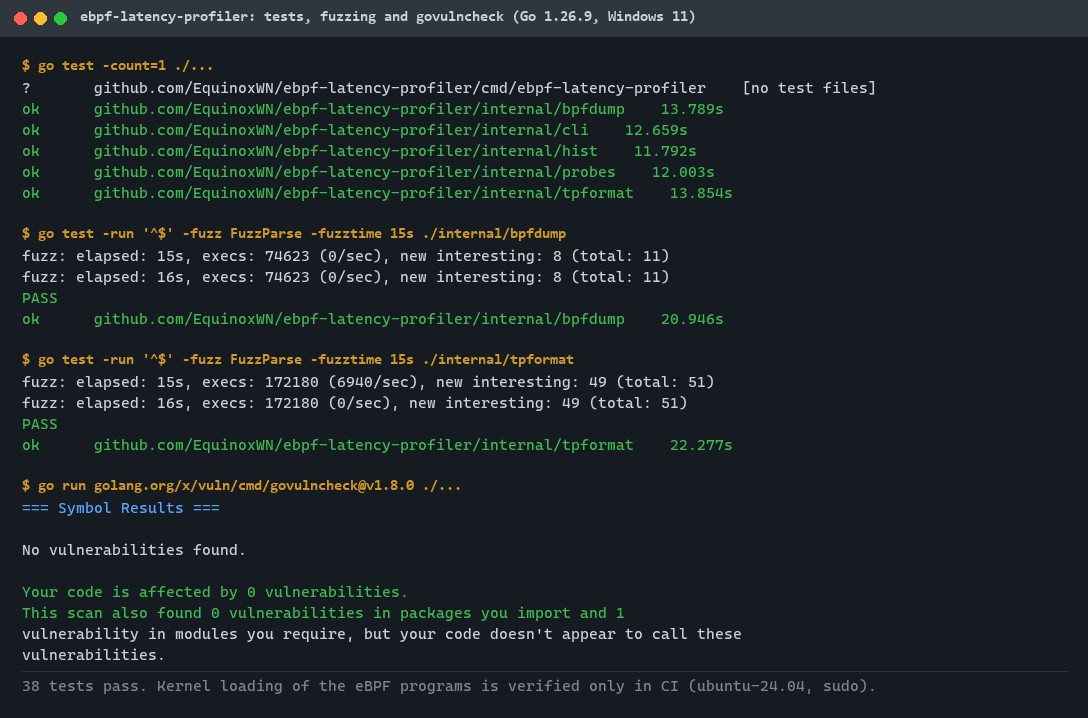
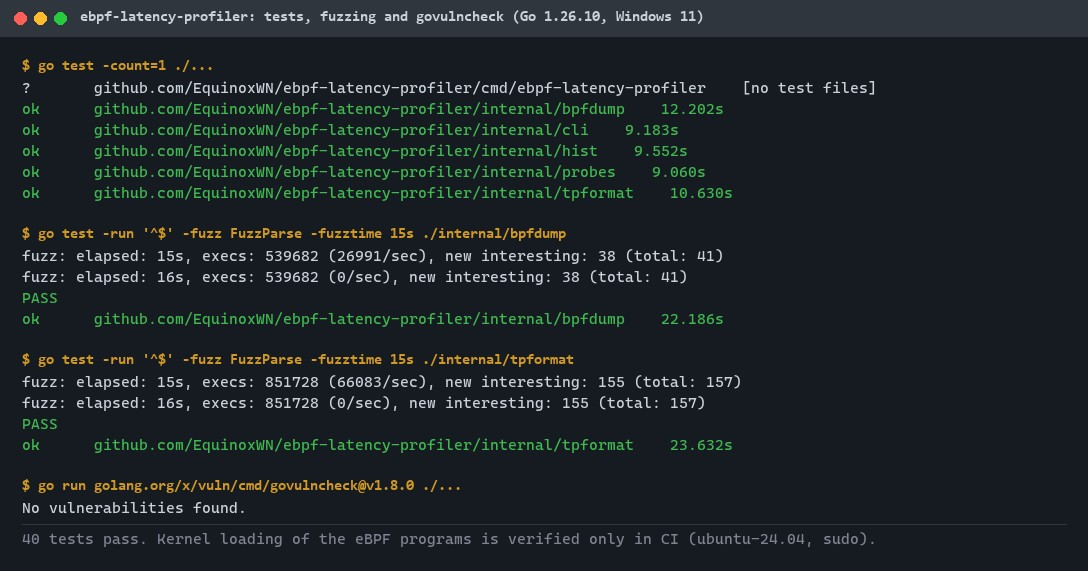
test: check the 10 quality rules, kill surviving mutants
Five hand mutants of the histogram, dump and format parsers survived the
existing tests; each now has a test that kills it. Documents the BPFTOOL
and BPF_CLANG variables and refreshes the test proof (40 tests).

diff --git a/internal/bpfdump/dump_test.go b/internal/bpfdump/dump_test.go
@@ -57,6 +57,7 @@ func TestParseRejectsMalformed(t *testing.T) {
 		"short key":      `[{"key":["0x00"],"value":` + u64 + `}]`,
 		"slot too big":   `[{"key":["0x20","0x00","0x00","0x00"],"value":` + u64 + `}]`,
 		"bad hex":        `[{"key":["0xzz","0x00","0x00","0x00"],"value":` + u64 + `}]`,
+		"short byte":     `[{"key":["0x0","0x00","0x00","0x00"],"value":` + u64 + `}]`,
 		"no prefix":      `[{"key":["00","0x00","0x00","0x00"],"value":` + u64 + `}]`,
 		"short value":    `[{"key":["0x00","0x00","0x00","0x00"],"value":["0x01"]}]`,
 		"no value":       `[{"key":["0x00","0x00","0x00","0x00"]}]`,
@@ -82,6 +83,15 @@ func TestPerCPUOverflowDetected(t *testing.T) {
 	in := `[{"key":["0x00","0x00","0x00","0x00"],"values":[{"cpu":0,"value":` + max + `},{"cpu":1,"value":` + max + `}]}]`
 	if _, err := Parse(strings.NewReader(in), "usecs"); !errors.Is(err, ErrFormat) {
 		t.Fatalf("want overflow error, got %v", err)
+	}
+}
+
+func TestTooManyCPUValuesRejected(t *testing.T) {
+	zero := `{"cpu":0,"value":["0x00","0x00","0x00","0x00","0x00","0x00","0x00","0x00"]}`
+	vals := strings.TrimSuffix(strings.Repeat(zero+",", maxCPUs+1), ",")
+	in := `[{"key":["0x00","0x00","0x00","0x00"],"values":[` + vals + `]}]`
+	if _, err := Parse(strings.NewReader(in), "usecs"); !errors.Is(err, ErrFormat) {
+		t.Fatalf("want ErrFormat for %d CPU values, got %v", maxCPUs+1, err)
 	}
 }
 

diff --git a/internal/hist/hist_test.go b/internal/hist/hist_test.go
@@ -30,7 +30,7 @@ func TestSlotBoundaries(t *testing.T) {
 	cases := []struct {
 		v    uint64
 		slot int
-	}{{0, 0}, {1, 0}, {2, 1}, {3, 1}, {4, 2}, {1000, 9}, {1023, 9}, {1024, 10}, {1 << 31, 31}, {1 << 40, 31}}
+	}{{0, 0}, {1, 0}, {2, 1}, {3, 1}, {4, 2}, {1000, 9}, {1023, 9}, {1024, 10}, {1 << 31, 31}, {1 << 32, 31}, {1<<33 - 1, 31}, {1 << 40, 31}}
 	for _, c := range cases {
 		if got := SlotFor(c.v); got != c.slot {
 			t.Errorf("SlotFor(%d) = %d, want %d", c.v, got, c.slot)
@@ -73,6 +73,17 @@ func TestAddRejectsBadSlotAndOverflow(t *testing.T) {
 	}
 	if err := h.Add(3, 1); err == nil {
 		t.Fatal("want overflow error")
+	}
+}
+
+func TestMergeReportsOverflow(t *testing.T) {
+	a, b := New("usecs"), New("usecs")
+	if err := a.Add(4, ^uint64(0)); err != nil {
+		t.Fatal(err)
+	}
+	b.Observe(20) // slot 4
+	if err := a.Merge(b); err == nil {
+		t.Fatal("merge into a full slot must fail")
 	}
 }
 

diff --git a/internal/tpformat/format_test.go b/internal/tpformat/format_test.go
@@ -92,6 +92,8 @@ func TestFieldNameForms(t *testing.T) {
 		"const char * name":     "name",
 		"void *skbaddr":         "skbaddr",
 		"unsigned long long ts": "ts",
+		// An unsized array outside __data_loc has no fixed size to read by offset.
+		"char flex[]": "",
 	}
 	for decl, want := range cases {
 		if got := fieldName(decl); got != want {

diff --git a/docs/quality/2026-11-01.md b/docs/quality/2026-11-01.md
@@ -1,0 +1,52 @@
+# Quality check 2026-11-01
+
+The ten quality rules checked against the code, with evidence. Go 1.26.10, Windows 11, Intel Core
+i7-13700H. The Go side reads files and stdin only; the eBPF programs run in the kernel and are
+loaded only in CI, so several rules are about the C program or are not applicable (reason given).
+
+| # | Rule | Status | Evidence |
+|---|---|---|---|
+| 1 | Every call can fail | pass | No network or database calls. File and stdin reads are bounded and every error is returned with context: `bpfdump.Parse` (`io.LimitReader`, `MaxInput` 16 MiB), `tpformat.Parse` (1 MiB scanner buffer), `cli.readDump` (refuses non-regular files), `probes.CheckKernel` (missing format file is an error, exit 1). The only ignored errors are `Close` on files opened read-only (`internal/cli/cli.go:154`, `internal/probes/catalog.go:114`), where nothing can be lost. In the C program every `bpf_map_lookup_elem` result is checked for NULL before use (`bpf/latency.bpf.c` `hist_add`, `tp_switch`, `tp_rq_complete`, `kr_fsync`). `scripts/probe-run.sh` runs with `set -euo pipefail`, reports a failed `bpftool prog loadall` as an `::error` annotation, and the CI jobs have 15-minute timeouts. |
+| 2 | Writes safe to retry | pass | The CLI writes only to stdout. `probe-run.sh` removes the pinned programs and maps before loading and again on exit (`trap cleanup EXIT`), so a second run starts from the same state. In the kernel, start times are written with `BPF_ANY` (a repeated start event overwrites, it does not add), and each end event deletes its start entry, so one start is counted at most once. |
+| 3 | No race conditions | pass | The Go code has no goroutines or shared state (`grep -rn "go func\|sync\." cmd internal`: none). In the kernel, histogram slots are per-CPU arrays incremented with `__sync_fetch_and_add`; the start maps are LRU hashes keyed per task, request or thread. A lookup-then-delete on the start maps can race with a new start event for the same key on another CPU; the cost is one lost or skipped sample, never a wrong bucket; LRU eviction under more than 10,240 in-flight starts loses samples the same way. Listed under known limitations. |
+| 4 | Don't trust the clock | pass | Latencies are deltas of `bpf_ktime_get_ns()` (CLOCK_MONOTONIC), and only positive deltas are counted (`if (now > *start)`). The Go code reads no clock. No timestamps are stored or logged. |
+| 5 | Read before changing | fixed | APIs used are the standard library (`go vet` clean on windows and linux) and libbpf/bpftool commands that CI runs. Found: `BPFTOOL` (read by the Makefile and `scripts/probe-run.sh`) and `BPF_CLANG` (Makefile) were not documented; the README "Run it" section now names both with their defaults. Every path the README lists exists. |
+| 6 | Never break compatibility | pass | The JSON summary (`cli.Summary`) is unchanged; optional fields use `omitempty`. The input format is bpftool's JSON dump, and the tracepoint layouts are checked against the running kernel (`check-format`, exit 4 on mismatch) before anything is loaded. |
+| 7 | One source of truth | pass | The kernel layout is written three times on purpose and tied together by tests: `FIELD_ASSERT` in C, the Go catalog, and the kernel's tracefs (`internal/probes/catalog_test.go` reads `latency.bpf.c` and compares every `SEC()`, map, `MAX_SLOTS` and offset). The histograms are the only copy of the data; user space reads them from the maps and keeps nothing. Go version: `go.mod` `go 1.23`, README "Go 1.23+; CI uses 1.26.10", both CI jobs 1.26.10: consistent. |
+| 8 | Small changes, no secrets, validate input | pass | Secret scan (`grep -rniE "password\|secret\|api_?key\|token" --include=*.go cmd internal`): no matches. Inputs validated with clear errors: dump size, entry count, key and value width, hex byte form, duplicate keys, CPU count and overflow (`bpfdump`); format file size, field offsets and sizes, identifier form (`tpformat`); probe name, output format and flags (`cli`, exit 2). No new dependency. |
+| 9 | Tests that can fail | fixed | No tautologies, skips or assertion-free tests (`grep -rn "t.Skip\|assert true"`: none). Mutation table below: 10 of 16 killed before; the 5 non-equivalent survivors now have tests that kill them. |
+| 10 | Re-verify | pass | `bash .tmp/check.sh`: `gofmt` clean, `go vet` (windows and linux) clean, linux build ok, `tests passed: 40, failed: 0`, govulncheck v1.8.0 `No vulnerabilities found.`, `ebpf-latency-profiler: OK`, `CHECK PASS`. Fuzzing re-run for the proof image, 15 s per parser, 0 failures. The kernel side is verified by the CI `probes` job of this commit. |
+
+## Mutation check
+
+Hand mutations, one at a time, `go test -count=1 ./internal/...`, then reverted
+(helper: apply the change, run the tests, restore the file).
+
+| Function | Mutation | Killed before? | Test added |
+|---|---|---|---|
+| `hist.SlotFor` | clamp `s >= MaxSlots` -> `s > MaxSlots` | no (no case in `[2^32, 2^33)`) | `TestSlotBoundaries` cases `1<<32` and `1<<33-1` |
+| `Hist.Percentile` | drop the round-up of the rank | yes | - |
+| `Hist.Percentile` | `seen >= rank` -> `seen > rank` | yes | - |
+| `Hist.Add` | drop the overflow check | yes | - |
+| `Hist.Merge` | ignore the error of `Add` | no | `TestMergeReportsOverflow` |
+| `hist.Low` | lower bound off by one | yes | - |
+| `bpfdump.Parse` | drop the duplicate-key check | yes | - |
+| `bpfdump.Parse` | entry-count bound raised by 100 | no: equivalent (33 or more entries always contain a duplicate or a slot above 31, both still rejected) | - |
+| `bpfdump.entryTotal` | drop the `maxCPUs` bound | no | `TestTooManyCPUValuesRejected` |
+| `bpfdump.entryTotal` | drop the per-CPU overflow check | yes | - |
+| `bpfdump.decodeBytes` | accept `0x1` (3 characters) | no | `TestParseRejectsMalformed` case "short byte" |
+| `Format.Check` | `offset or size differ` -> `and` | yes | - |
+| `tpformat.parseField` | accept negative offsets | yes | - |
+| `tpformat.fieldName` | drop the unsized-array guard | no | `TestFieldNameForms` case `char flex[]` |
+| `cli.render` | `-min-count`: `<` -> `<=` | yes | - |
+| `probes.CheckKernel` | layout problems not collected | yes | - |
+
+Score: 10 of 16 killed before; 15 of 16 after (each of the 5 survivors re-run against the new test
+and killed), the remaining one is equivalent.
+
+## Known limitations
+
+- The race detector is not run: the Go code has no goroutines, and the machine has no C compiler.
+- Samples can be lost, never miscounted: a start entry evicted from a full LRU map (10,240 entries), or
+  replaced by a concurrent start event for the same key, drops that one sample. Kernel overhead and
+  the lost-sample rate under heavy load are not measured yet (M3).

diff --git a/README.md b/README.md
@@ -15,7 +15,7 @@ kernel's formats, because the author's machine runs Windows:
 
 ![probes, check-format and render on fixture inputs](docs/proof/demo.jpg)
 
-38 Go tests pass, both input parsers survive fuzzing, and govulncheck finds no vulnerabilities in
+40 Go tests pass, both input parsers survive fuzzing, and govulncheck finds no vulnerabilities in
 called code with Go 1.26.10, the version CI uses:
 
 ![go test, fuzzing and govulncheck output](docs/proof/tests.jpg)
@@ -116,31 +116,34 @@ sudo bpftool -j map dump pinned /sys/fs/bpf/elp/maps/runq_hist | ./bin/ebpf-late
 sudo rm -rf /sys/fs/bpf/elp   # detach and free everything
 ```
 
+Environment: `BPFTOOL` (bpftool binary for `make probe-run` and `scripts/probe-run.sh`, default `bpftool`) and `BPF_CLANG` (`make bpf` compiler, default `clang`).
+
 `render` flags: `-probe runqlat|biolatency|fsynclat`, `-in FILE` (default stdin), `-format text|line|json`,
 `-min-count N` (exit 3 if fewer events).
 
 ## Tests and results
 
-38 tests, 0 failures (Go 1.26.10, Windows 11). Full table with every test: [docs/results/m1.md](docs/results/m1.md).
+40 tests, 0 failures (Go 1.26.10, Windows 11). Full table with every test: [docs/results/m1.md](docs/results/m1.md).
+Quality check of the 10 engineering rules, with a mutation test of the core functions: [docs/quality/2026-11-01.md](docs/quality/2026-11-01.md).
 
 | File | Tests | What it proves |
 |---|---|---|
-| `internal/hist/hist_test.go` | 10 | The Go port of the kernel's branch-free log2 matches `math/bits` on 100,014 values; buckets tile the range; percentiles, merge and bcc-style rendering are correct |
-| `internal/bpfdump/dump_test.go` | 8 | bpftool JSON dumps (per-CPU and plain) are summed correctly; malformed, oversized and overflowing input is rejected; round trip on 1 to 64 CPUs; fuzz seed corpus |
+| `internal/hist/hist_test.go` | 11 | The Go port of the kernel's branch-free log2 matches `math/bits` on 100,014 values; buckets tile the range; percentiles, merge (including overflow) and bcc-style rendering are correct |
+| `internal/bpfdump/dump_test.go` | 9 | bpftool JSON dumps (per-CPU and plain) are summed correctly; malformed, oversized, overflowing and too-many-CPU input is rejected; round trip on 1 to 64 CPUs; fuzz seed corpus |
 | `internal/tpformat/format_test.go` | 7 | tracefs format files parse (arrays, `__data_loc`); moved, resized and missing fields are reported; malformed files rejected; fuzz seed corpus |
 | `internal/probes/catalog_test.go` | 7 | The Go catalog and `latency.bpf.c` agree on every `SEC()`, map, `MAX_SLOTS` and `FIELD_ASSERT` offset; layout changes are detected |
 | `internal/cli/cli_test.go` | 6 | `render`, `check-format` and `probes` end to end, including exit codes for every error path |
 
 Headline results:
 
-- Fuzzing: 74,623 dump-parser inputs and 172,180 format-parser inputs in 15 s each, 0 crashes.
+- Fuzzing (re-run 2026-11-01): 539,682 dump-parser inputs and 851,728 format-parser inputs in 15 s each, 0 crashes.
 - `go vet` (windows and linux), `gofmt`: clean. govulncheck v1.8.0: no vulnerabilities in called code.
 - Kernel side: compiled, layout-checked, loaded and run **in CI only**; per-probe event counts and
   p50/p99 bucket bounds are in the CI run's `::notice` annotations. Overhead is not measured yet (M3).
 
 ```mermaid
 mindmap
-  root((38 tests pass))
+  root((40 tests pass))
     Histogram model
       log2 matches math/bits
       buckets tile the range

diff --git a/docs/results/m1.md b/docs/results/m1.md
@@ -137,3 +137,25 @@ Re-run with Go 1.26.10 (`go version go1.26.10 windows/amd64`), `bash .tmp/check.
 | `.tmp/check.sh` | `CHECK PASS` |
 
 Fuzzing and the CI-only kernel run were not re-run locally for this pass.
+
+## Quality check 2026-11-01
+
+The 10 engineering rules were checked against the code; the table, the evidence and the mutation
+table are in [docs/quality/2026-11-01.md](../quality/2026-11-01.md).
+
+- Mutation check (16 hand mutations of the core functions): 10 killed by the existing tests. The 5
+  non-equivalent survivors each got a test that kills them: `SlotFor` clamp boundary at `2^32`,
+  `Merge` overflow error, more than 8,192 per-CPU values, 3-character hex bytes, unsized arrays
+  in tracefs declarations. One mutant is equivalent (entry-count bound).
+- Documented the `BPFTOOL` and `BPF_CLANG` environment variables in the README.
+- No code changed; tests: 38 -> 40.
+
+Re-run, `bash .tmp/check.sh` (Go 1.26.10):
+
+| Check | Result |
+|---|---|
+| `gofmt -l cmd internal`, `go vet` (windows, linux), linux build | clean, build ok |
+| `go test -count=1 -v ./...` | 40 passed, 0 failed |
+| Fuzzing, 15 s per parser | 539,682 (bpfdump) and 851,728 (tpformat) inputs, 0 failures |
+| govulncheck v1.8.0 | `No vulnerabilities found.` |
+| `audit_repo.py` | `ebpf-latency-profiler: OK` |
